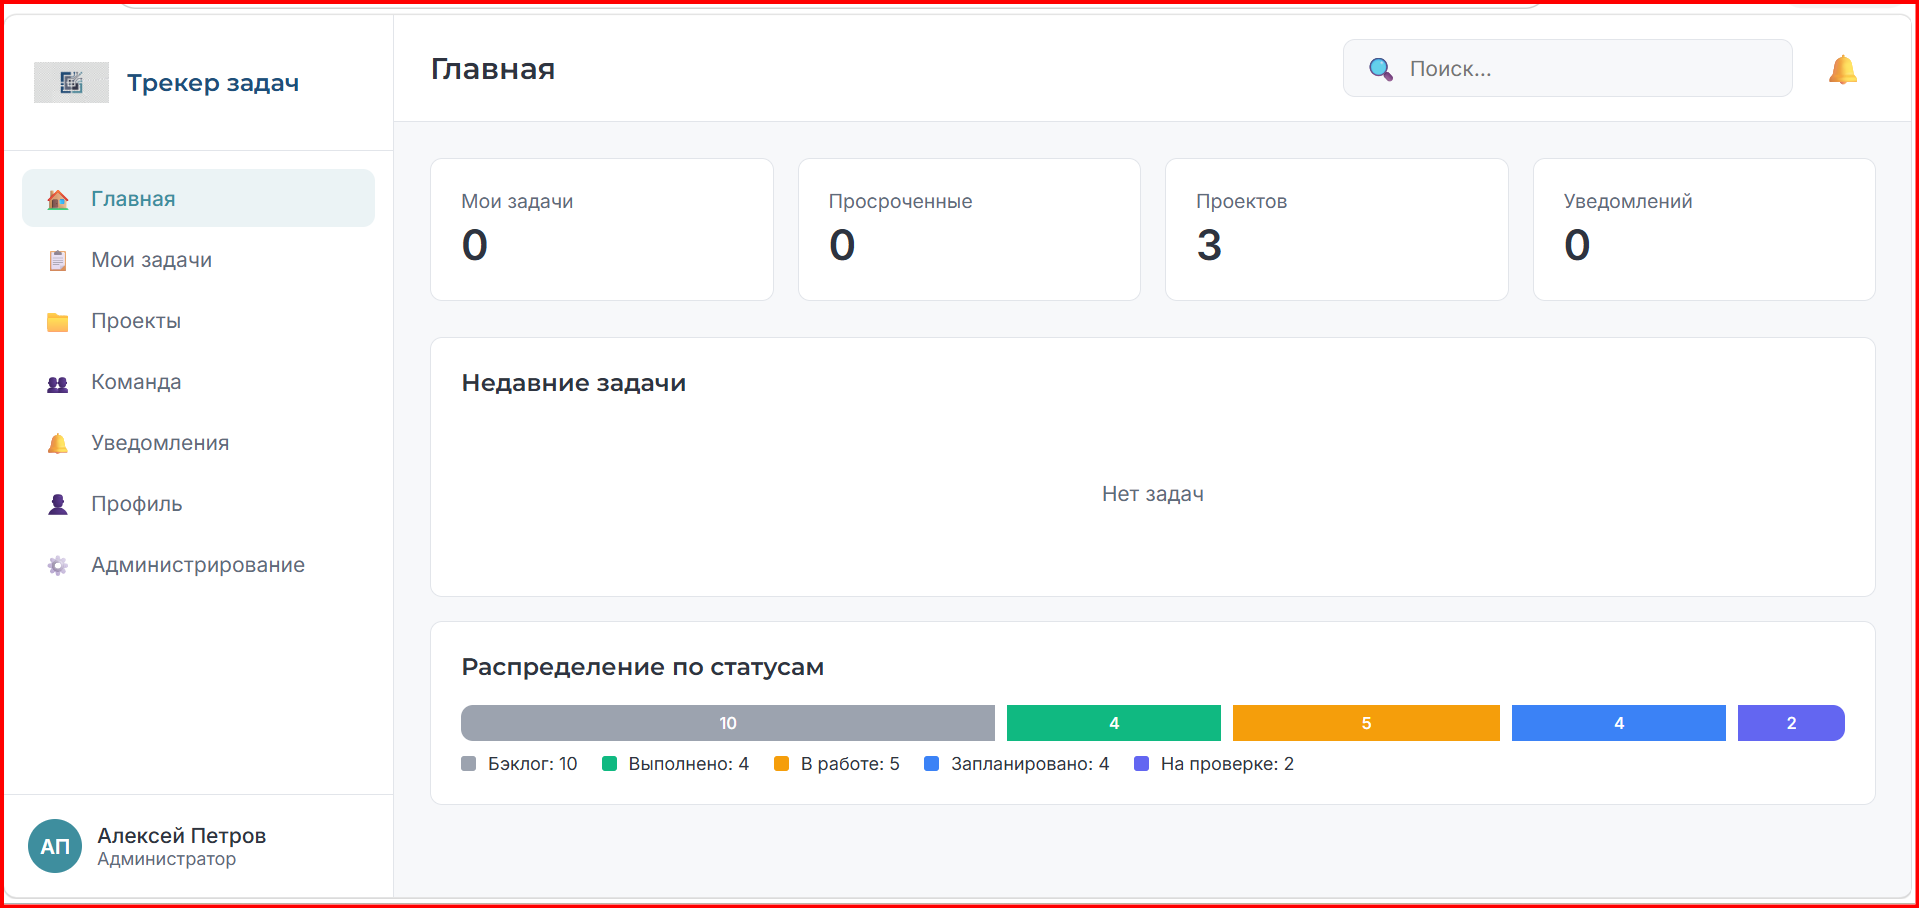
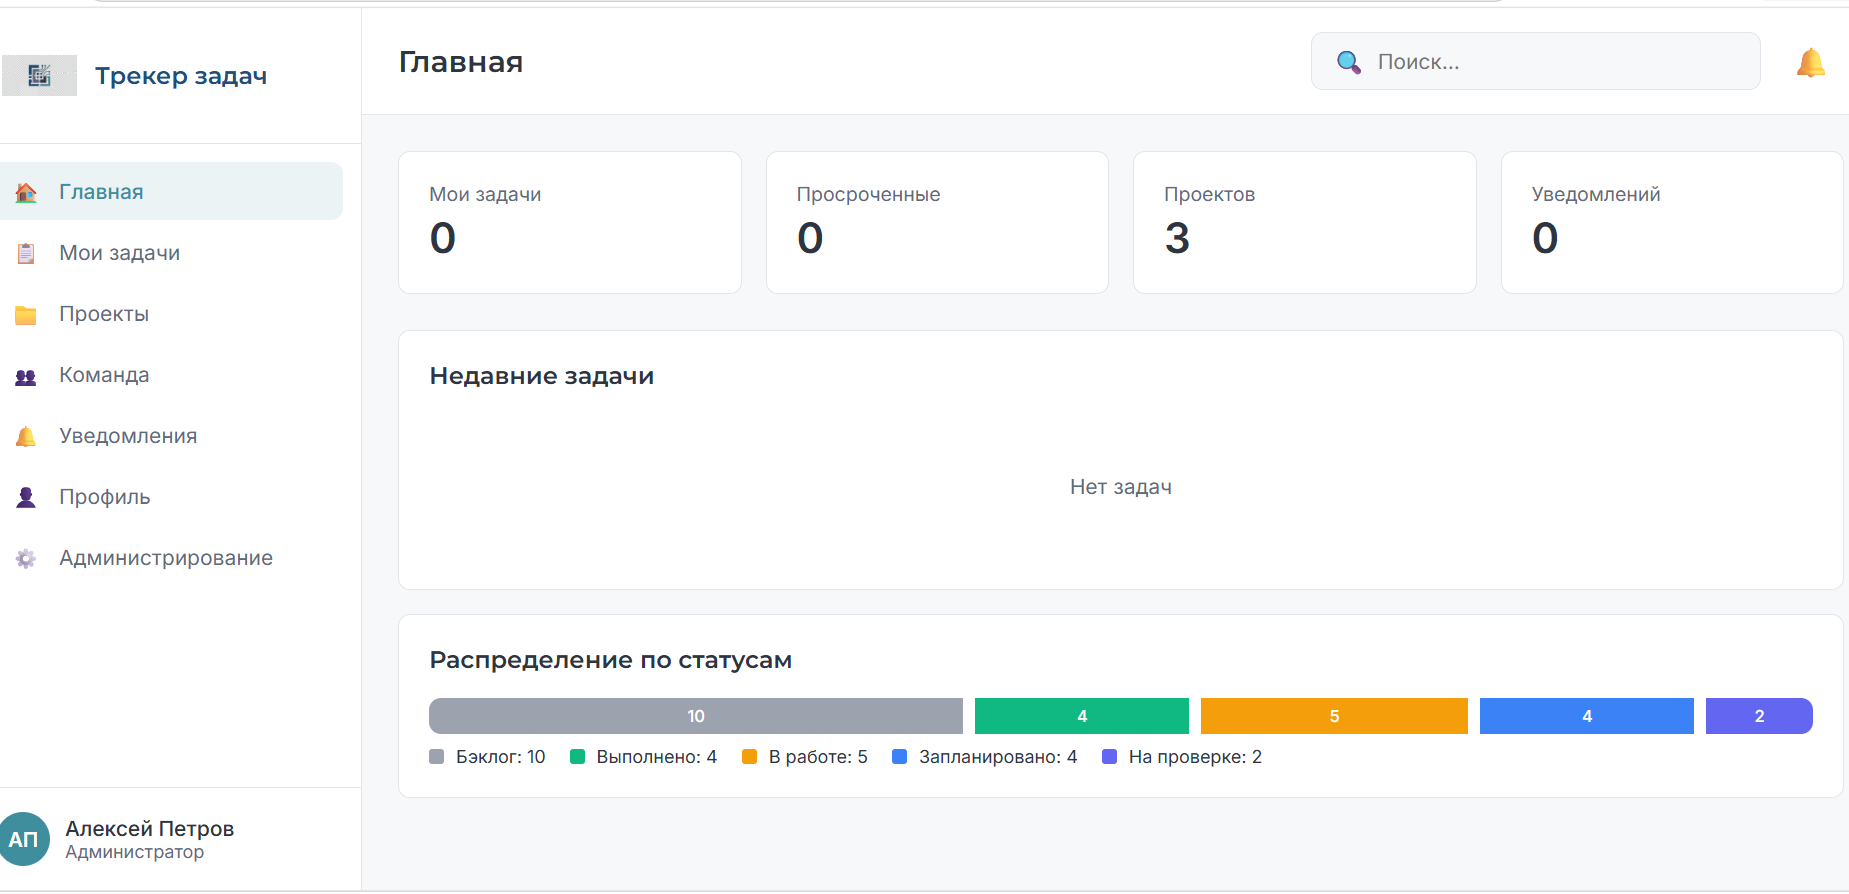
Обновлён Hero-раздел: новый заголовок, карточки услуг, смена структуры меню, добавлена секция «Услуги»

diff --git a/index.html b/index.html
@@ -3,8 +3,8 @@
 <head>
     <meta charset="UTF-8">
     <meta name="viewport" content="width=device-width, initial-scale=1.0">
-    <title>Ольга Самоварова — MVP и автоматизация для бизнеса</title>
-    <meta name="description" content="Помогаю малому бизнесу запускать MVP за дни: калькуляторы, трекеры, лендинги, AI-боты">
+    <title>Ольга Самоварова — Цифровые решения для бизнеса</title>
+    <meta name="description" content="Помогаю предпринимателям и компаниям запускать цифровые продукты, автоматизировать процессы и создавать удобные инструменты">
     <link rel="preconnect" href="https://fonts.googleapis.com">
     <link rel="preconnect" href="https://fonts.gstatic.com" crossorigin>
     <link href="https://fonts.googleapis.com/css2?family=Inter:wght@300;400;500;600;700;800&family=JetBrains+Mono:wght@400;500&display=swap" rel="stylesheet">
@@ -25,11 +25,11 @@
                 <span class="nav__logo-bracket">{</span>ОС<span class="nav__logo-bracket">}</span>
             </a>
             <div class="nav__links">
-                <a href="#about" class="nav__link">Обо мне</a>
                 <a href="#cases" class="nav__link">Кейсы</a>
-                <a href="#contact-form" class="nav__link">Связаться</a>
+                <a href="#services" class="nav__link">Услуги</a>
+                <a href="#about" class="nav__link">Обо мне</a>
                 <a href="#skills" class="nav__link">Навыки</a>
-                <a href="#contact" class="nav__link">Контакт</a>
+                <a href="#contact" class="nav__link">Контакты</a>
             </div>
             <button class="nav__burger" id="burger" aria-label="Меню">
                 <span></span><span></span><span></span>
@@ -39,11 +39,11 @@
 
     <!-- Mobile menu -->
     <div class="mobile-menu" id="mobileMenu">
-        <a href="#about" class="mobile-menu__link">Обо мне</a>
         <a href="#cases" class="mobile-menu__link">Кейсы</a>
-        <a href="#contact-form" class="mobile-menu__link">Связаться</a>
+        <a href="#services" class="mobile-menu__link">Услуги</a>
+        <a href="#about" class="mobile-menu__link">Обо мне</a>
         <a href="#skills" class="mobile-menu__link">Навыки</a>
-        <a href="#contact" class="mobile-menu__link">Контакт</a>
+        <a href="#contact" class="mobile-menu__link">Контакты</a>
     </div>
 
     <!-- Hero -->
@@ -51,47 +51,79 @@
         <div class="hero__container">
             <div class="hero__badge reveal">
                 <span class="hero__badge-dot"></span>
-                Открытая к проектам
+                Открыта к проектам
             </div>
             <h1 class="hero__title reveal">
                 <span class="hero__name">Ольга Самоварова</span>
-                <span class="hero__subtitle">Создаю MVP и инструменты<br>автоматизации для бизнеса</span>
+                <span class="hero__subtitle">Создаю цифровые решения для бизнеса</span>
             </h1>
             <p class="hero__description reveal">
-                Помогаю малому бизнесу, онлайн-школам и экспертам<br>
-                запускать рабочие продукты за дни — без долгой разработки<br>
-                и лишних затрат.
+                От идеи до готового решения: сайты, чат-боты, мини-приложения, MVP и автоматизация процессов под задачи вашего бизнеса.
             </p>
-            <div class="hero__pains reveal">
-                <div class="pain-card">
-                    <div class="pain-card__icon">⏱</div>
-                    <div class="pain-card__text">
-                        <strong>Долгая разработка</strong>
-                        <span>MVP готов за 3–7 дней</span>
+            <p class="hero__extra reveal">
+                Помогаю предпринимателям и компаниям запускать цифровые продукты, автоматизировать рутинные процессы и создавать удобные инструменты без сложной и дорогой разработки.
+            </p>
+            <div class="hero__cards reveal">
+                <div class="hero-card">
+                    <div class="hero-card__icon">🌐</div>
+                    <div class="hero-card__text">
+                        <strong>Сайты</strong>
+                        <span>Лендинги, корпоративные сайты, портфолио</span>
                     </div>
                 </div>
-                <div class="pain-card">
-                    <div class="pain-card__icon">📋</div>
-                    <div class="pain-card__text">
-                        <strong>Рутина и ручной труд</strong>
-                        <span>Автоматизация процессов</span>
+                <div class="hero-card">
+                    <div class="hero-card__icon">🤖</div>
+                    <div class="hero-card__text">
+                        <strong>Чат-боты</strong>
+                        <span>Автоматизация общения и обработки заявок</span>
                     </div>
                 </div>
-                <div class="pain-card">
-                    <div class="pain-card__icon">💰</div>
-                    <div class="pain-card__text">
-                        <strong>Дорогая разработка</strong>
-                        <span>Стоимость в разы ниже</span>
+                <div class="hero-card">
+                    <div class="hero-card__icon">⚡</div>
+                    <div class="hero-card__text">
+                        <strong>Веб-приложения</strong>
+                        <span>Калькуляторы, MVP, личные кабинеты, внутренние сервисы</span>
                     </div>
                 </div>
             </div>
             <div class="hero__cta reveal">
-                <a href="#cases" class="btn btn--primary">Смотреть кейсы</a>
-                <a href="#contact" class="btn btn--outline">Связаться</a>
+                <a href="#contact-form" class="btn btn--primary">Обсудить проект</a>
+                <a href="#cases" class="btn btn--outline">Посмотреть кейсы</a>
             </div>
         </div>
         <div class="hero__scroll-indicator">
             <div class="hero__scroll-line"></div>
+        </div>
+    </section>
+
+    <!-- Services -->
+    <section class="services" id="services">
+        <div class="services__container">
+            <h2 class="section-title reveal">Услуги</h2>
+            <p class="section-subtitle reveal">Что я делаю для вашего бизнеса</p>
+
+            <div class="services__grid">
+                <div class="service-card reveal">
+                    <div class="service-card__icon">🌐</div>
+                    <h3 class="service-card__title">Сайты</h3>
+                    <p class="service-card__text">Лендинги, корпоративные сайты, портфолио. Адаптивный дизайн, быстрая загрузка, удобная навигация.</p>
+                </div>
+                <div class="service-card reveal">
+                    <div class="service-card__icon">🤖</div>
+                    <h3 class="service-card__title">Чат-боты</h3>
+                    <p class="service-card__text">Автоматизация общения с клиентами, обработка заявок, запись на приём, ответы на вопросы 24/7.</p>
+                </div>
+                <div class="service-card reveal">
+                    <div class="service-card__icon">⚡</div>
+                    <h3 class="service-card__title">Веб-приложения</h3>
+                    <p class="service-card__text">Калькуляторы, трекеры, личные кабинеты, внутренние сервисы. От MVP до полноценного продукта.</p>
+                </div>
+                <div class="service-card reveal">
+                    <div class="service-card__icon">🔄</div>
+                    <h3 class="service-card__title">Автоматизация</h3>
+                    <p class="service-card__text">Настройка процессов, интеграция сервисов, устранение рутины. Экономия времени и денег.</p>
+                </div>
+            </div>
         </div>
     </section>
 

diff --git a/style.css b/style.css
@@ -325,10 +325,24 @@ img {
 }
 
 .hero__container {
-    max-width: 900px;
-    text-align: center;
+    max-width: 1000px;
+    text-align: left;
     position: relative;
     z-index: 1;
+    padding-left: 8%;
+}
+
+.hero__container::before {
+    content: '';
+    position: absolute;
+    top: -40px;
+    left: 0;
+    right: -80px;
+    bottom: -40px;
+    background: rgba(0, 0, 0, 0.18);
+    border-radius: var(--radius-xl);
+    z-index: -1;
+    pointer-events: none;
 }
 
 .hero__badge {
@@ -361,14 +375,14 @@ img {
 }
 
 .hero__title {
-    margin-bottom: 24px;
+    margin-bottom: 28px;
 }
 
 .hero__name {
     display: block;
-    font-size: clamp(2.5rem, 6vw, 4.5rem);
-    font-weight: 800;
-    letter-spacing: -0.03em;
+    font-size: clamp(1.8rem, 4vw, 3rem);
+    font-weight: 700;
+    letter-spacing: -0.02em;
     line-height: 1.1;
     background: var(--gradient-primary);
     -webkit-background-clip: text;
@@ -379,76 +393,85 @@ img {
 
 .hero__subtitle {
     display: block;
-    font-size: clamp(1.1rem, 2.5vw, 1.5rem);
-    font-weight: 400;
+    font-size: clamp(2.5rem, 6vw, 4.8rem);
+    font-weight: 800;
+    letter-spacing: -0.03em;
+    line-height: 1.08;
     color: var(--color-text);
-    line-height: 1.4;
 }
 
 .hero__description {
-    font-size: 1.05rem;
-    color: var(--color-text-secondary);
+    font-size: clamp(1.15rem, 2.2vw, 1.45rem);
+    color: rgba(255, 255, 255, 0.92);
     line-height: 1.7;
-    margin-bottom: 48px;
-    max-width: 600px;
-    margin-left: auto;
-    margin-right: auto;
+    margin-bottom: 12px;
+    max-width: 650px;
+    text-shadow: 0 2px 20px rgba(0, 0, 0, 0.4);
 }
 
-/* Pain cards */
-.hero__pains {
+.hero__extra {
+    font-size: clamp(0.95rem, 1.8vw, 1.1rem);
+    color: rgba(255, 255, 255, 0.55);
+    line-height: 1.7;
+    margin-bottom: 44px;
+    max-width: 650px;
+}
+
+/* Hero cards */
+.hero__cards {
     display: grid;
     grid-template-columns: repeat(3, 1fr);
     gap: 16px;
     margin-bottom: 48px;
 }
 
-.pain-card {
+.hero-card {
     display: flex;
     align-items: center;
     gap: 12px;
     padding: 16px 20px;
-    background: var(--glass-bg);
+    background: rgba(0, 0, 0, 0.25);
     border: 1px solid var(--glass-border);
     border-radius: var(--radius-md);
-    backdrop-filter: blur(var(--glass-blur));
-    -webkit-backdrop-filter: blur(var(--glass-blur));
+    backdrop-filter: blur(12px);
+    -webkit-backdrop-filter: blur(12px);
     text-align: left;
     transition: var(--transition-smooth);
 }
 
-.pain-card:hover {
+.hero-card:hover {
     border-color: var(--color-border-hover);
-    background: var(--color-surface-hover);
+    background: rgba(0, 0, 0, 0.35);
     transform: translateY(-2px);
 }
 
-.pain-card__icon {
+.hero-card__icon {
     font-size: 1.5rem;
     flex-shrink: 0;
 }
 
-.pain-card__text {
+.hero-card__text {
     display: flex;
     flex-direction: column;
 }
 
-.pain-card__text strong {
+.hero-card__text strong {
     font-size: 0.85rem;
     font-weight: 600;
     color: var(--color-text);
 }
 
-.pain-card__text span {
+.hero-card__text span {
     font-size: 0.75rem;
     color: var(--color-text-secondary);
+    line-height: 1.4;
 }
 
 /* CTA buttons */
 .hero__cta {
     display: flex;
     gap: 16px;
-    justify-content: center;
+    justify-content: flex-start;
 }
 
 .btn {
@@ -531,6 +554,62 @@ img {
     color: var(--color-text-secondary);
     text-align: center;
     margin-bottom: 64px;
+}
+
+/* ============================================
+   Services Section
+   ============================================ */
+.services {
+    padding: 100px 24px;
+    position: relative;
+}
+
+.services__container {
+    max-width: 1000px;
+    margin: 0 auto;
+}
+
+.services__grid {
+    display: grid;
+    grid-template-columns: repeat(auto-fit, minmax(200px, 1fr));
+    gap: 24px;
+}
+
+.service-card {
+    padding: 32px 24px;
+    background: var(--glass-bg);
+    border: 1px solid var(--glass-border);
+    border-radius: var(--radius-lg);
+    backdrop-filter: blur(var(--glass-blur));
+    -webkit-backdrop-filter: blur(var(--glass-blur));
+    text-align: center;
+    transition: var(--transition-smooth);
+}
+
+.service-card:hover {
+    border-color: var(--color-border-hover);
+    background: var(--color-surface-hover);
+    transform: translateY(-4px);
+    box-shadow: 0 12px 40px rgba(0, 0, 0, 0.3);
+}
+
+.service-card__icon {
+    font-size: 2.5rem;
+    margin-bottom: 16px;
+    display: block;
+}
+
+.service-card__title {
+    font-size: 1.1rem;
+    font-weight: 700;
+    color: var(--color-text);
+    margin-bottom: 8px;
+}
+
+.service-card__text {
+    font-size: 0.9rem;
+    color: var(--color-text-secondary);
+    line-height: 1.5;
 }
 
 /* ============================================
@@ -1253,12 +1332,25 @@ img {
         display: flex;
     }
 
-    .hero__pains {
+    .hero__cards {
         grid-template-columns: 1fr;
     }
 
     .hero__cta {
         flex-direction: column;
+        align-items: flex-start;
+    }
+
+    .hero__container {
+        padding-left: 0;
+        text-align: center;
+    }
+
+    .hero__container::before {
+        display: none;
+    }
+
+    .hero__cta {
         align-items: center;
     }
 
